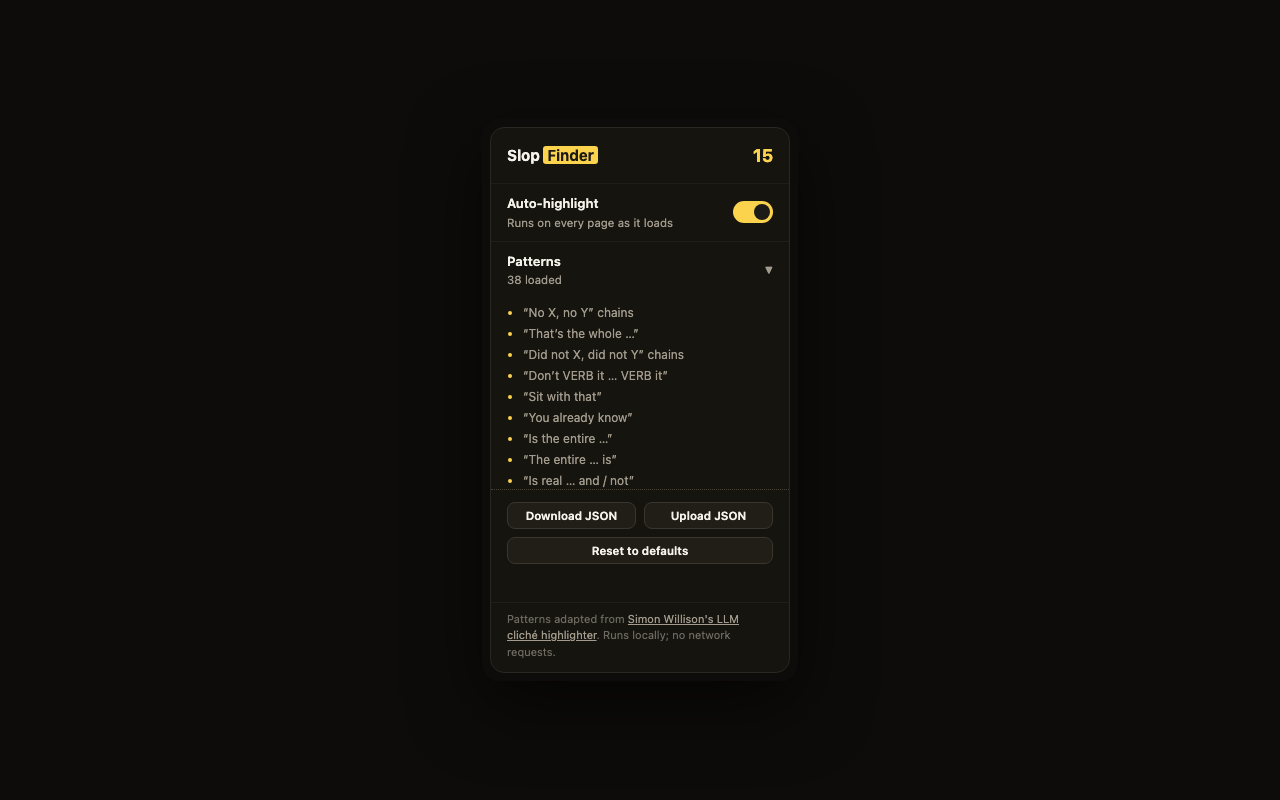
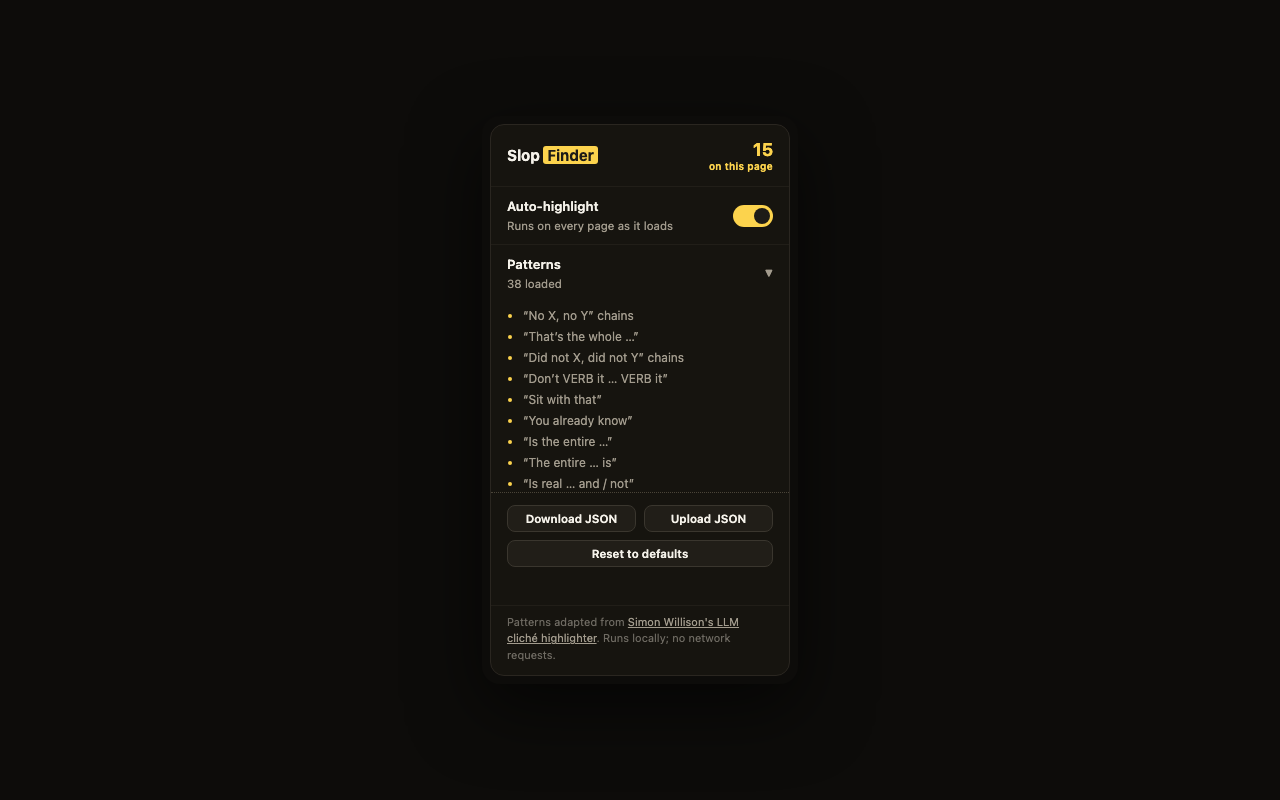
Label the popup count 'on this page' (v1.0.2)
Small yellow label under the header count so the number reads as a
per-page tally at a glance. Store popup screenshot regenerated.

diff --git a/extension/popup.html b/extension/popup.html
@@ -39,7 +39,9 @@
   }
   .row-label { font-weight: 600; font-size: 13px; }
   .row-sub { color: #a29b8d; font-size: 11.5px; }
+  .count-wrap { display: flex; flex-direction: column; align-items: flex-end; line-height: 1.2; }
   .count { color: #fcd34d; font-weight: 700; font-size: 18px; }
+  .count-label { color: #fcd34d; font-size: 10px; font-weight: 600; letter-spacing: 0.02em; }
   /* toggle */
   .switch { position: relative; display: inline-block; width: 40px; height: 22px; flex-shrink: 0; }
   .switch input { opacity: 0; width: 0; height: 0; }
@@ -107,7 +109,10 @@
   <div class="panel">
     <header>
       <h1>Slop <mark>Finder</mark></h1>
-      <span class="count" id="page-count">–</span>
+      <div class="count-wrap">
+        <span class="count" id="page-count">–</span>
+        <span class="count-label">on this page</span>
+      </div>
     </header>
     <div class="row">
       <div>

diff --git a/HOW_IT_WORKS.md b/HOW_IT_WORKS.md
@@ -102,7 +102,8 @@ for your reading.
 ## Popup (`popup.html` / `popup.js`)
 
 A rounded panel (inner container — the popup window itself can't be
-transparent): title, this-page count, on/off toggle (storage-backed,
+transparent): title, this-page count (labeled "on this page"), on/off
+toggle (storage-backed,
 applied live by every tab), an expandable **Patterns** row (`<details>`)
 that lists the active pattern names as a scrollable bullet list with
 descriptions on hover, and — under a dotted divider — pattern management:
